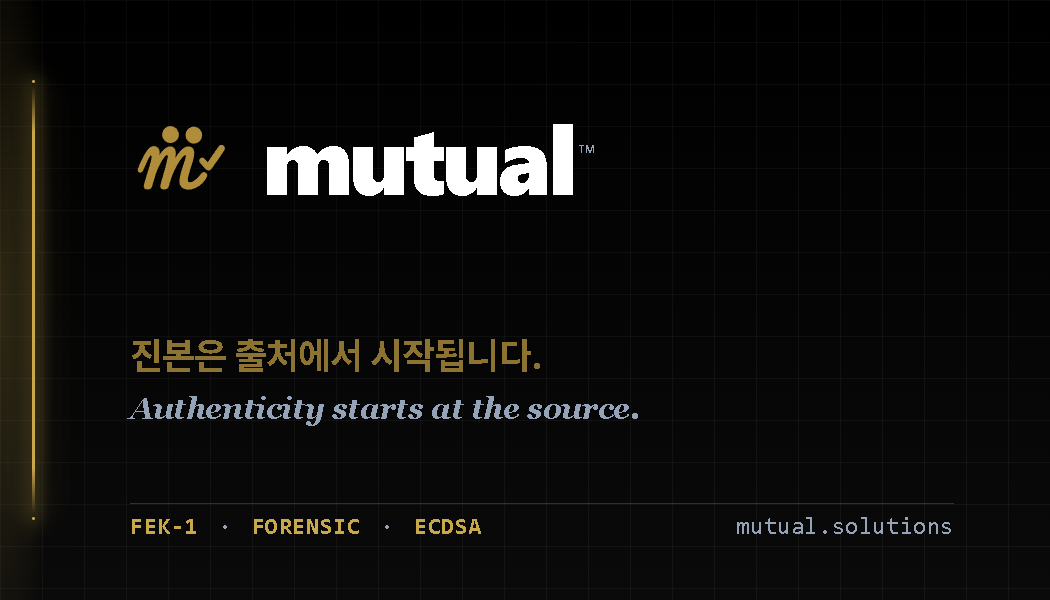
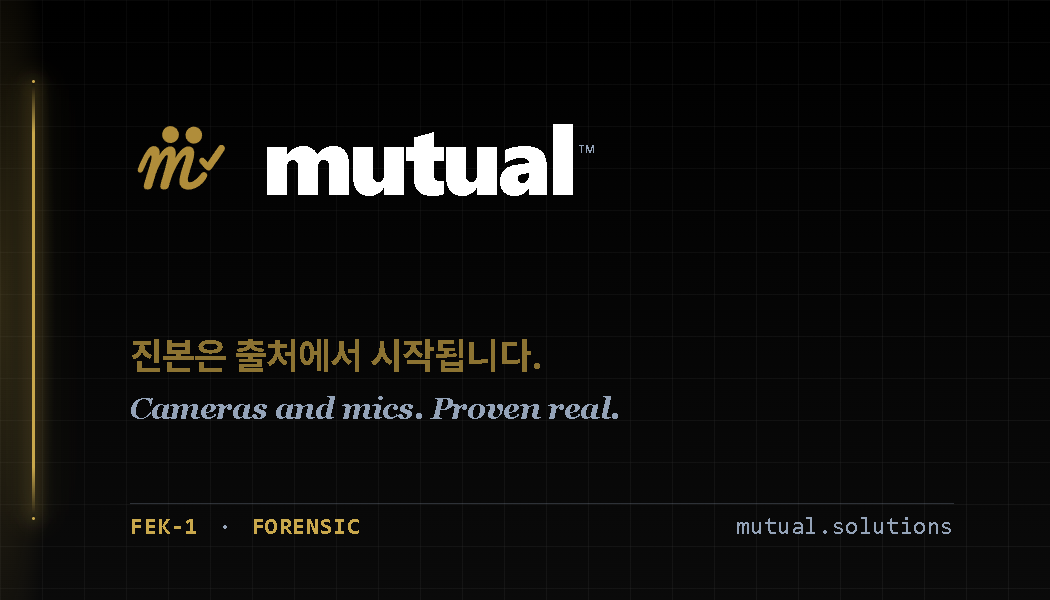
Lab Edge FEK-1/Capture · drop ECDSA badge, swap to antimutual slogan
Front-card text changes for FEK-1-palette variants only:
- Badge row: "FEK-1 · FORENSIC · ECDSA" → "FEK-1 · FORENSIC"
- English slogan: "Authenticity starts at the source." →
  "Cameras and mics. Proven real." (short antimutual line)

Korean tagline and all default-palette variants are unchanged.

Changed region(s): [[0.1219, 0.66, 0.6095, 0.72], [0.3962, 0.84, 0.4571, 0.9]]

diff --git a/.canva-build/v-tech-edge-capture-front.html b/.canva-build/v-tech-edge-capture-front.html
@@ -31,7 +31,7 @@ html,body{width:1050px;height:600px;background:#000000;font-family:'Inter','Sego
   <!-- tagline (Korean primary, English secondary) -->
   <div style="position:absolute;left:130px;bottom:172px;text-align:left;z-index:2">
     <div class="ko" style="font-weight:700;font-size:36px;color:#8c7332;letter-spacing:-0.8px;line-height:1.2">진본은 출처에서 시작됩니다.</div>
-    <div style="margin-top:14px;font-weight:600;font-size:30px;color:#94a3b8;letter-spacing:-0.4px;line-height:1.3;font-style:italic;font-family:'Playfair Display','Georgia','Times New Roman',serif;">Authenticity starts at the source.</div>
+    <div style="margin-top:14px;font-weight:600;font-size:30px;color:#94a3b8;letter-spacing:-0.4px;line-height:1.3;font-style:italic;font-family:'Playfair Display','Georgia','Times New Roman',serif;">Cameras and mics. Proven real.</div>
   </div>
 
   <!-- divider -->
@@ -39,7 +39,7 @@ html,body{width:1050px;height:600px;background:#000000;font-family:'Inter','Sego
 
   <!-- meta row -->
   <div class="mono" style="position:absolute;left:130px;right:96px;bottom:60px;display:flex;justify-content:space-between;align-items:center;font-size:24px;color:#94a3b8;letter-spacing:0.6px;font-weight:500;z-index:2">
-    <div style="display:flex;gap:20px"><span style="color:#c9a84c;font-weight:600">FEK-1</span><span>·</span><span style="color:#c9a84c;font-weight:600">FORENSIC</span><span>·</span><span style="color:#c9a84c;font-weight:600">ECDSA</span></div>
+    <div style="display:flex;gap:20px"><span style="color:#c9a84c;font-weight:600">FEK-1</span><span>·</span><span style="color:#c9a84c;font-weight:600">FORENSIC</span></div>
     <div>mutual.solutions</div>
   </div>
   

diff --git a/.canva-build/v-tech-edge-fek1-front.html b/.canva-build/v-tech-edge-fek1-front.html
@@ -31,7 +31,7 @@ html,body{width:1050px;height:600px;background:#000000;font-family:'Inter','Sego
   <!-- tagline (Korean primary, English secondary) -->
   <div style="position:absolute;left:130px;bottom:172px;text-align:left;z-index:2">
     <div class="ko" style="font-weight:700;font-size:36px;color:#8c7332;letter-spacing:-0.8px;line-height:1.2">진본은 출처에서 시작됩니다.</div>
-    <div style="margin-top:14px;font-weight:600;font-size:30px;color:#94a3b8;letter-spacing:-0.4px;line-height:1.3;font-style:italic;font-family:'Playfair Display','Georgia','Times New Roman',serif;">Authenticity starts at the source.</div>
+    <div style="margin-top:14px;font-weight:600;font-size:30px;color:#94a3b8;letter-spacing:-0.4px;line-height:1.3;font-style:italic;font-family:'Playfair Display','Georgia','Times New Roman',serif;">Cameras and mics. Proven real.</div>
   </div>
 
   <!-- divider -->
@@ -39,7 +39,7 @@ html,body{width:1050px;height:600px;background:#000000;font-family:'Inter','Sego
 
   <!-- meta row -->
   <div class="mono" style="position:absolute;left:130px;right:96px;bottom:60px;display:flex;justify-content:space-between;align-items:center;font-size:24px;color:#94a3b8;letter-spacing:0.6px;font-weight:500;z-index:2">
-    <div style="display:flex;gap:20px"><span style="color:#c9a84c;font-weight:600">FEK-1</span><span>·</span><span style="color:#c9a84c;font-weight:600">FORENSIC</span><span>·</span><span style="color:#c9a84c;font-weight:600">ECDSA</span></div>
+    <div style="display:flex;gap:20px"><span style="color:#c9a84c;font-weight:600">FEK-1</span><span>·</span><span style="color:#c9a84c;font-weight:600">FORENSIC</span></div>
     <div>mutual.solutions</div>
   </div>
   
